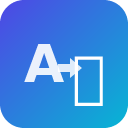
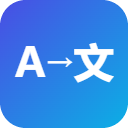
docs: 更新安装说明，优化图标设计
- 添加从 Releases 下载 zip 安装的说明
- 更新图标为 A→文 设计，渐变背景
- 优化图标文字布局，箭头更小

diff --git a/icons/generate-icons.html b/icons/generate-icons.html
@@ -32,8 +32,11 @@
       const canvas = document.getElementById(canvasId);
       const ctx = canvas.getContext('2d');
 
-      // Background
-      ctx.fillStyle = '#1890ff';
+      // Background gradient (same as original icon)
+      const gradient = ctx.createLinearGradient(0, 0, size, size);
+      gradient.addColorStop(0, '#4A4DE4');
+      gradient.addColorStop(1, '#0BAFE5');
+      ctx.fillStyle = gradient;
       ctx.fillRect(0, 0, size, size);
 
       // Border radius (simulate rounded corners)
@@ -44,12 +47,34 @@
       ctx.fill();
       ctx.globalCompositeOperation = 'source-over';
 
-      // Text "译"
-      ctx.fillStyle = '#ffffff';
-      ctx.font = `bold ${size * 0.5}px Arial`;
+      // Text "A→文" - 分开绘制，箭头更小
       ctx.textAlign = 'center';
       ctx.textBaseline = 'middle';
-      ctx.fillText('译', size / 2, size / 2);
+
+      const mainFontSize = size * 0.32;
+      const arrowFontSize = size * 0.2;
+      const centerY = size / 2 + size * 0.02;
+
+      // 计算每个字符的位置
+      const spacing = size * 0.04;
+      const char1Width = mainFontSize * 0.7;  // A 的近似宽度
+      const char2Width = arrowFontSize * 0.8; // → 的近似宽度
+      const char3Width = mainFontSize * 0.9;  // 文 的近似宽度
+      const totalWidth = char1Width + spacing + char2Width + spacing + char3Width;
+      const startX = (size - totalWidth) / 2 + char1Width / 2;
+
+      // 绘制 "A"
+      ctx.fillStyle = '#ffffff';
+      ctx.font = `bold ${mainFontSize}px "Microsoft YaHei", "PingFang SC", "SimHei", sans-serif`;
+      ctx.fillText('A', startX, centerY);
+
+      // 绘制 "→" (更小)
+      ctx.font = `${arrowFontSize}px "Microsoft YaHei", "PingFang SC", "SimHei", sans-serif`;
+      ctx.fillText('→', startX + char1Width / 2 + spacing + char2Width / 2, centerY);
+
+      // 绘制 "文"
+      ctx.font = `bold ${mainFontSize}px "Microsoft YaHei", "PingFang SC", "SimHei", sans-serif`;
+      ctx.fillText('文', startX + char1Width / 2 + spacing + char2Width + spacing + char3Width / 2, centerY);
     }
 
     function download(canvasId, size) {

diff --git a/README.md b/README.md
@@ -15,9 +15,18 @@
 
 ## 安装
 
-### 从源码安装
+### 方式一：下载安装包（推荐）
 
-1. 下载或克隆本项目
+1. 前往 [Releases](../../releases) 页面下载最新版本的 `chromeplugin.zip`
+2. 解压 zip 文件到任意目录
+3. 打开 Chrome，访问 `chrome://extensions/`
+4. 开启右上角「开发者模式」
+5. 点击「加载已解压的扩展程序」，选择解压后的文件夹
+6. 安装完成
+
+### 方式二：从源码安装
+
+1. 克隆本项目：`git clone https://github.com/你的用户名/chromeplugin.git`
 2. 打开 Chrome，访问 `chrome://extensions/`
 3. 开启右上角「开发者模式」
 4. 点击「加载已解压的扩展程序」，选择项目目录
